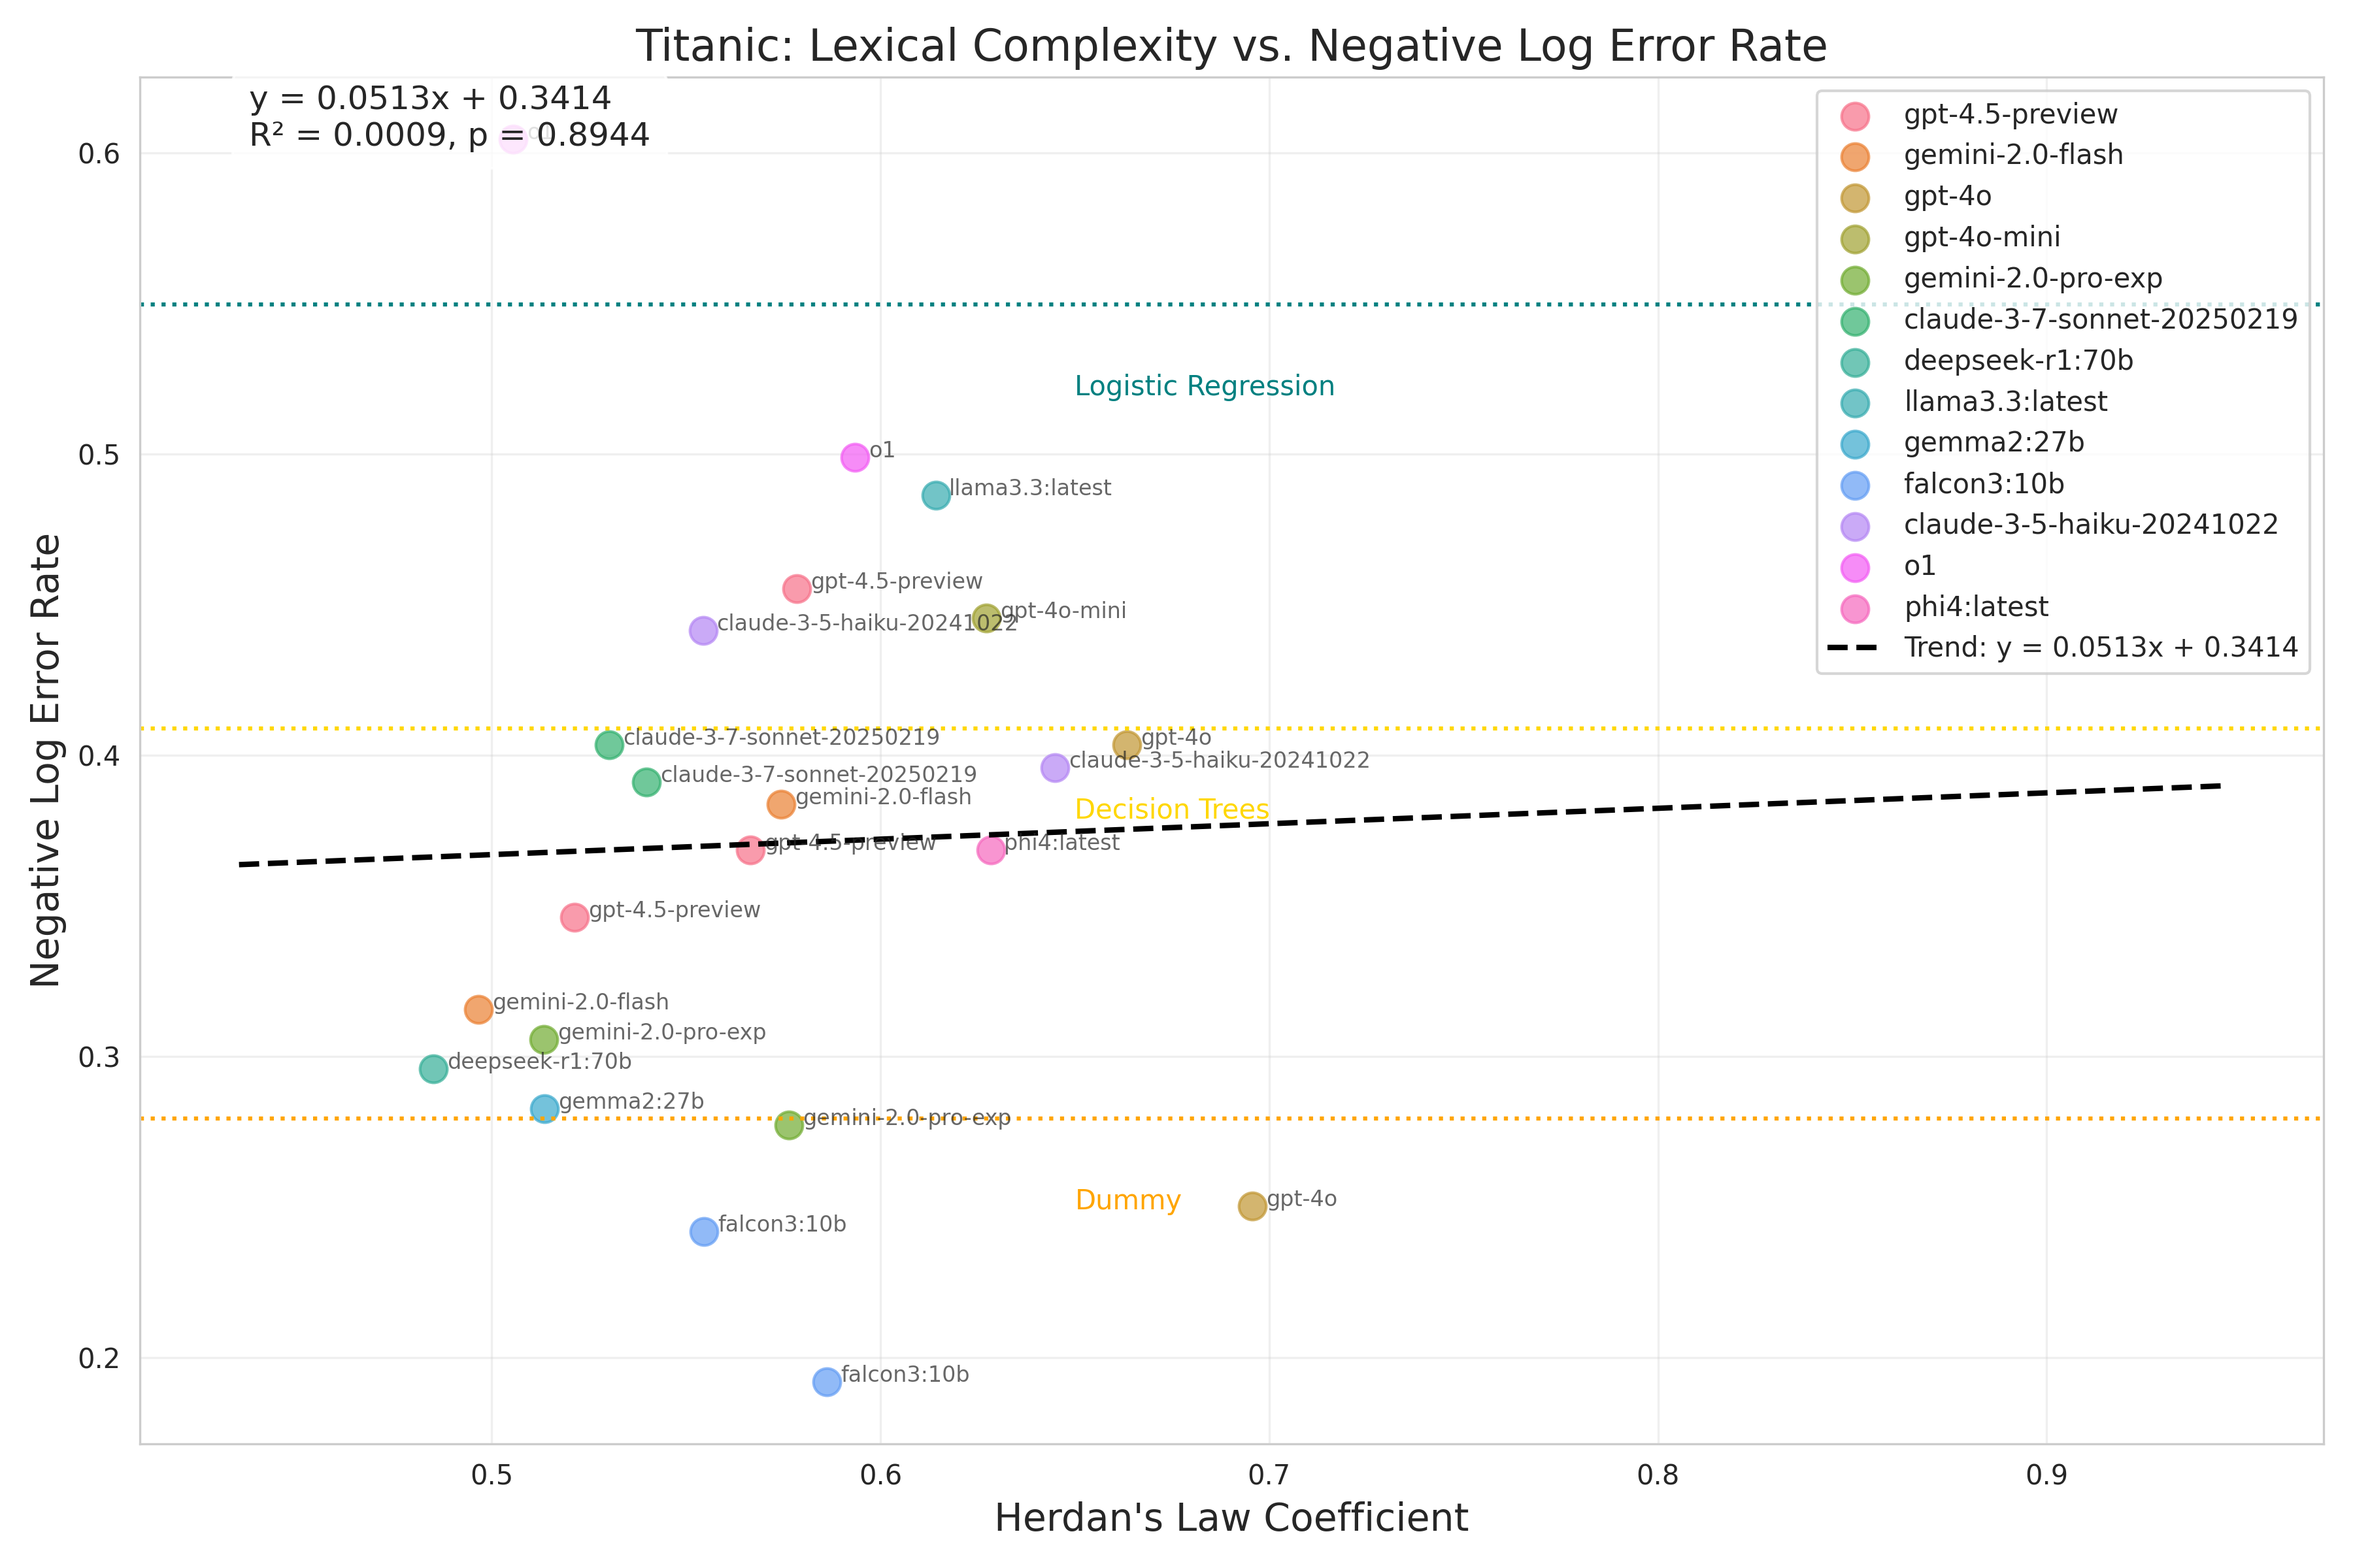
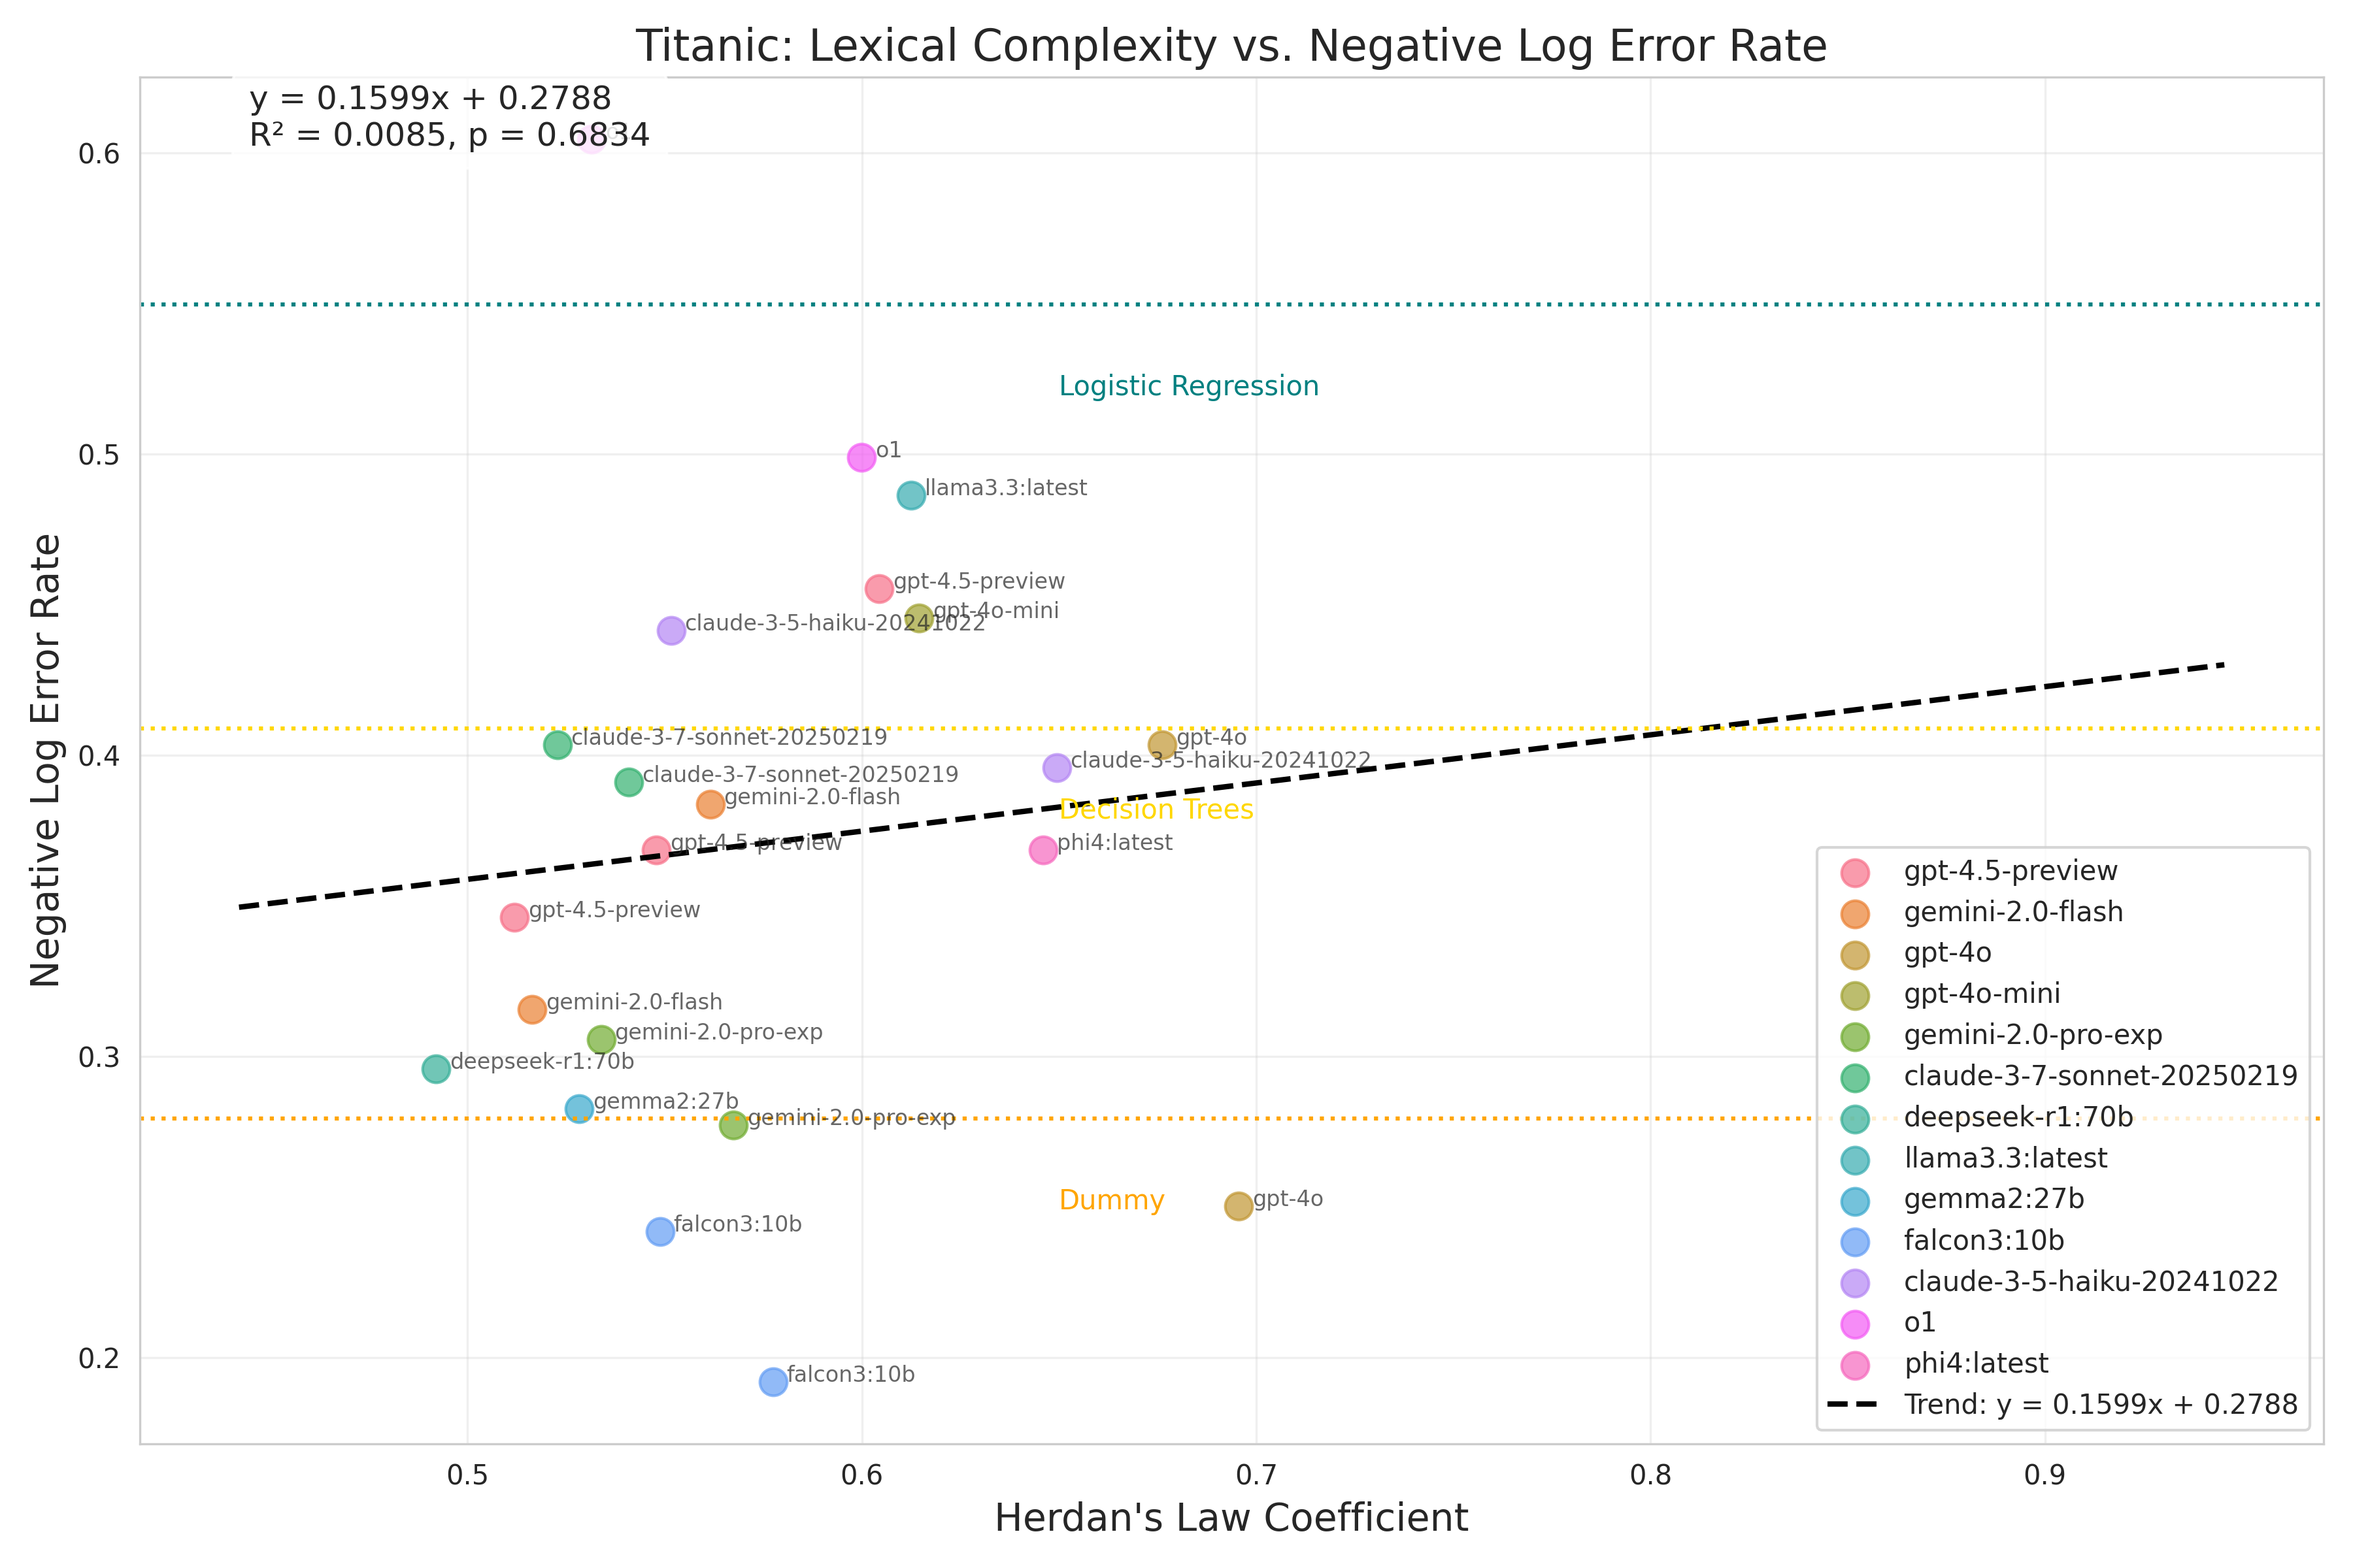
Latest experimental results

diff --git a/outputs/herdan-model-size-definitions.tex b/outputs/herdan-model-size-definitions.tex
@@ -1,3 +1,3 @@
-\newcommand{\herdansizetrend}{-0.024}
-\newcommand{\herdansizetrendpvalue}{0.057}
-\newcommand{\herdanaveragecorrelation}{0.42}
+\newcommand{\herdansizetrend}{-0.021}
+\newcommand{\herdansizetrendpvalue}{0.080}
+\newcommand{\herdanaveragecorrelation}{0.47}

diff --git a/outputs/southgermancredit_error_rate_by_herdan_slope.tex b/outputs/southgermancredit_error_rate_by_herdan_slope.tex
@@ -1,1 +1,1 @@
--0.206
+-0.272

diff --git a/outputs/wisconsin_error_rate_by_cumulative_wordcount_pvalue.tex b/outputs/wisconsin_error_rate_by_cumulative_wordcount_pvalue.tex
@@ -1,1 +1,1 @@
-0.000
+0.0003

diff --git a/outputs/wisconsin_error_rate_by_prompt_wordcount_pvalue.tex b/outputs/wisconsin_error_rate_by_prompt_wordcount_pvalue.tex
@@ -1,1 +1,1 @@
-0.001
+0.0013

diff --git a/outputs/wisconsin_error_rate_by_reasoning_wordcount_pvalue.tex b/outputs/wisconsin_error_rate_by_reasoning_wordcount_pvalue.tex
@@ -1,1 +1,1 @@
-0.000
+0.0001

diff --git a/outputs/southgermancredit_error_rate_by_herdan_pvalue.tex b/outputs/southgermancredit_error_rate_by_herdan_pvalue.tex
@@ -1,1 +1,1 @@
-0.344
+0.229

diff --git a/outputs/titanic_error_rate_by_herdan_pvalue.tex b/outputs/titanic_error_rate_by_herdan_pvalue.tex
@@ -1,1 +1,1 @@
-0.894
+0.683

diff --git a/outputs/titanic_error_rate_by_herdan_slope.tex b/outputs/titanic_error_rate_by_herdan_slope.tex
@@ -1,1 +1,1 @@
-0.051
+0.160

diff --git a/outputs/wisconsin_error_rate_by_herdan_pvalue.tex b/outputs/wisconsin_error_rate_by_herdan_pvalue.tex
@@ -1,1 +1,1 @@
-0.037
+0.029

diff --git a/outputs/wisconsin_error_rate_by_herdan_slope.tex b/outputs/wisconsin_error_rate_by_herdan_slope.tex
@@ -1,1 +1,1 @@
-1.273
+1.382
